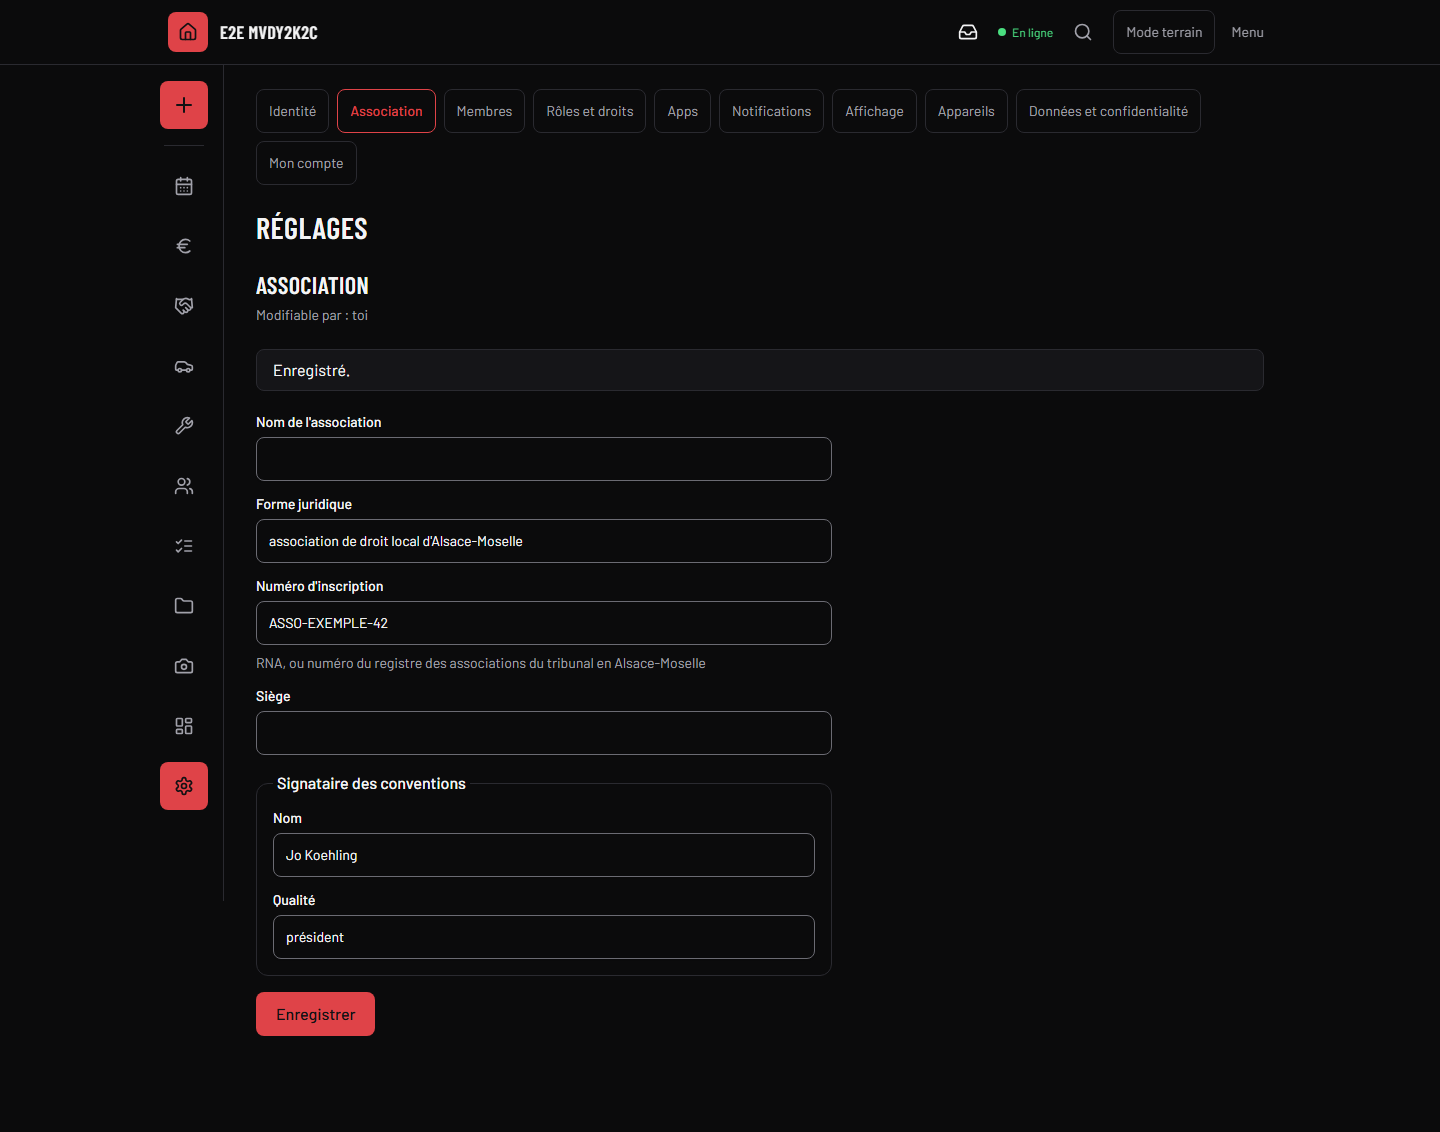
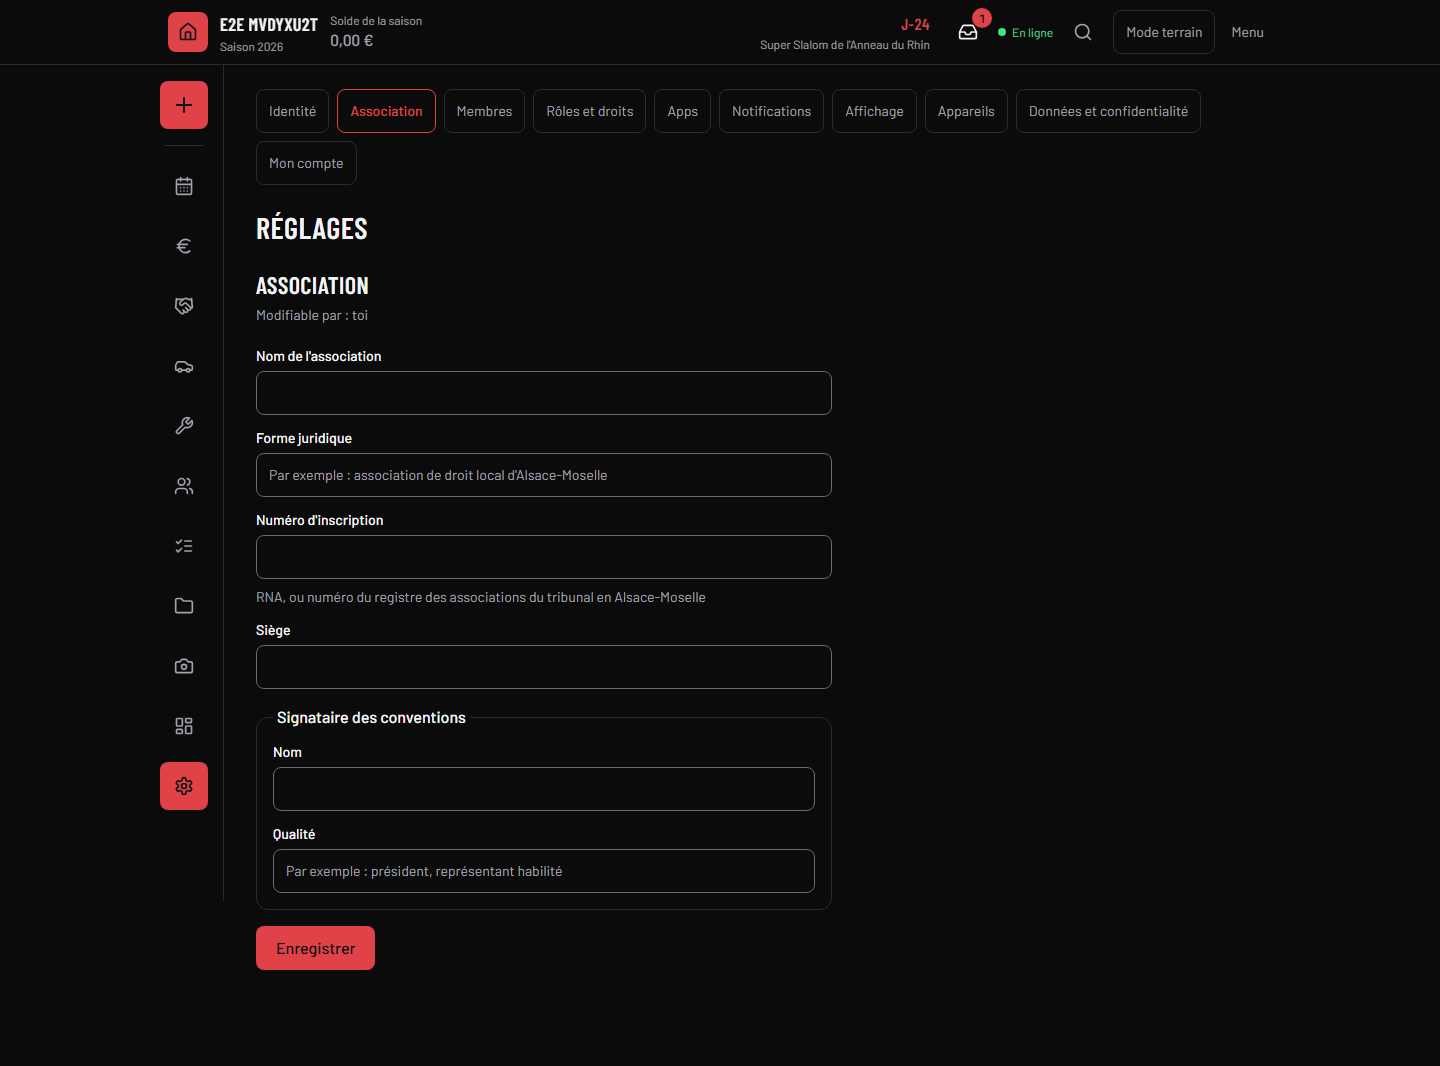
Partenaires : captures et vérifications du brief 3.5 (points 2 et 5)
- Réglages, Association : capture de la rubrique vide (sans donnée de test), faite dans e2e/captures.spec.ts ; le test g d'e2e/identite.spec.ts ne fait plus de capture.
- scripts/verifier-cloisonnement.ts : contrôle RLS des onze tables Partenaires et des trois colonnes de core_team.
- scripts/verifier-bus.ts : signature, avancement, fin de convention, contrepartie en retard et relance, chacun une seule fois après deux ouvertures du QG.

diff --git a/scripts/verifier-bus.ts b/scripts/verifier-bus.ts
@@ -587,6 +587,82 @@ async function main() {
     const attendusLibres = await proprietaire.voitureSlot.count({ where: { teamId: team.id, deletedAt: null, statut: "libre", vehicle: { actif: true, deletedAt: null } } })
     controle("le widget emplacements libres compte tous les véhicules actifs", widgetEmplacements.nombre === attendusLibres && attendusLibres > 0, `${widgetEmplacements.nombre}/${attendusLibres}`)
 
+    // 12. Partenaires (tâche 3.5) : signature, avancement, fin de convention, retard et relance, un seul
+    //     événement ou une seule tâche à chaque fois, même après deux ouvertures du QG.
+    const partenaires = await import("../src/apps/partenaires/services-serveur")
+    const { cleContrepartieEnRetard } = await import("../src/apps/partenaires/charges")
+    const { jourParis } = await import("../src/apps/partenaires/regles")
+    const saisonPartenaires = randomUUID()
+    await proprietaire.coreSeason.create({
+      data: { id: saisonPartenaires, teamId: team.id, annee: 2041, nom: "Saison 2041", dateDebut: new Date("2041-01-01"), dateFin: new Date("2041-12-31") },
+    })
+    const compterEvenements = async (nom: string, champ: string, valeur: string) =>
+      (await proprietaire.coreDomainEvent.findMany({ where: { teamId: team.id, nom } })).filter(
+        (e) => (e.donnees as Record<string, unknown>)[champ] === valeur,
+      ).length
+
+    const partenaireId = await partenaires.creerProspectDans(ctx, { entreprise: `Garage Verif ${suffixe}`, contact: { prenom: "Ana", nom: "Verif" } })
+    const [modele] = await partenaires.lireModelesDans(ctx)
+    const conventionId = await partenaires.creerConventionDans(ctx, {
+      partnerId: partenaireId,
+      templateId: modele.id,
+      seasonId: saisonPartenaires,
+      dateDebut: "2041-01-01",
+      dateFin: "2041-12-31",
+    })
+    const logoId = await partenaires.ajouterContrepartieDans(ctx, conventionId, { libelle: "Logo sur la voiture", type: "logo_voiture", quantitePromise: 1 })
+    await partenaires.modifierContrepartieDans(ctx, logoId, { slotId: randomUUID(), slotNom: "Portière droite" })
+    const publicationId = await partenaires.ajouterContrepartieDans(ctx, conventionId, { libelle: "Publication", type: "publication_reseaux", quantitePromise: 2 })
+    await partenaires.modifierContrepartieDans(ctx, publicationId, { echeance: "2026-01-15" })
+
+    await partenaires.marquerEnvoyeeDans(ctx, conventionId)
+    await partenaires.marquerSigneeDans(ctx, conventionId, { signeeLe: "2041-01-01", signataires: "Jo Koehling ; Ana Verif" })
+    const signees = await proprietaire.coreDomainEvent.findMany({ where: { teamId: team.id, nom: "partenaires.convention_signee" } })
+    const signee = signees.find((e) => (e.donnees as Record<string, unknown>).agreementId === conventionId)
+    const contrepartiesSignee = (signee?.donnees as { contreparties?: Array<{ slotNom: string | null }> } | undefined)?.contreparties ?? []
+    controle(
+      "marquer signée émet convention_signee avec la contrepartie logo et son emplacement",
+      contrepartiesSignee.length === 1 && contrepartiesSignee[0].slotNom === "Portière droite",
+      `contreparties : ${contrepartiesSignee.length}`,
+    )
+    const partenaireSigne = await proprietaire.partenairesPartner.findUnique({ where: { id: partenaireId } })
+    controle("la signature fait passer le partenaire au statut partenaire", partenaireSigne?.statut === "partenaire", partenaireSigne?.statut)
+
+    await partenaires.saisirAvancementDans(ctx, logoId, 1)
+    await partenaires.saisirAvancementDans(ctx, logoId, 1)
+    controle(
+      "saisir la quantité promise émet contrepartie_tenue une seule fois",
+      (await compterEvenements("partenaires.contrepartie_tenue", "benefitId", logoId)) === 1,
+    )
+
+    // Dates passées : signée → en cours → terminée au recalcul, en une fois ; l'événement part une seule fois.
+    await proprietaire.partenairesAgreement.update({ where: { id: conventionId }, data: { dateDebut: new Date("2026-01-01"), dateFin: new Date("2026-06-30") } })
+    await partenaires.recalculerPourQg(ctx, "gestion")
+    await partenaires.recalculerPourQg(ctx, "gestion")
+    const conventionTerminee = await proprietaire.partenairesAgreement.findUnique({ where: { id: conventionId } })
+    controle("le recalcul fait passer la convention à terminée", conventionTerminee?.statut === "terminee", conventionTerminee?.statut)
+    controle(
+      "convention_terminee est émis une seule fois, malgré deux ouvertures du QG",
+      (await compterEvenements("partenaires.convention_terminee", "agreementId", conventionId)) === 1,
+    )
+
+    // Contrepartie en retard (échéance passée, non tenue) : un événement et une action, une seule fois.
+    controle(
+      "contrepartie en retard : un seul événement après deux ouvertures du QG",
+      (await compterEvenements("partenaires.contrepartie_en_retard", "benefitId", publicationId)) === 1,
+    )
+    const actionsRetard = await proprietaire.coreAction.count({ where: { teamId: team.id, cleUnicite: cleContrepartieEnRetard(publicationId, "2026-01-15") } })
+    controle("contrepartie en retard : une seule action levée", actionsRetard === 1, String(actionsRetard))
+
+    // Relance due aujourd'hui : un événement et une seule tâche, même après deux ouvertures du QG.
+    const prospectRelance = await partenaires.creerProspectDans(ctx, { entreprise: `Relance Verif ${suffixe}` })
+    await partenaires.modifierPartenaireDans(ctx, prospectRelance, { prochaineRelance: jourParis(new Date()) })
+    await partenaires.recalculerPourQg(ctx, "gestion")
+    await partenaires.recalculerPourQg(ctx, "gestion")
+    controle("relance due : un seul événement relance_due", (await compterEvenements("partenaires.relance_due", "partnerId", prospectRelance)) === 1)
+    const taches = await proprietaire.coreTask.count({ where: { teamId: team.id, app: "partenaires", ficheId: prospectRelance } })
+    controle("relance due : une seule tâche core_task", taches === 1, String(taches))
+
     console.log("\nBus et boîte d'actions vérifiés : tous les contrôles passent.")
   } finally {
     // Nettoyage avec le rôle propriétaire, dans l'ordre des clés étrangères.
@@ -614,6 +690,20 @@ async function main() {
     await proprietaire.voitureTeamPref.deleteMany({ where: { teamId: team.id } })
     await proprietaire.voitureVehicle.deleteMany({ where: { teamId: team.id } })
     await proprietaire.coreVehicle.deleteMany({ where: { teamId: team.id } })
+    // Partenaires : les enfants d'abord (RESTRICT), puis les contacts et les tâches.
+    await proprietaire.partenairesPortalMessage.deleteMany({ where: { teamId: team.id } })
+    await proprietaire.partenairesPortalLink.deleteMany({ where: { teamId: team.id } })
+    await proprietaire.partenairesProof.deleteMany({ where: { teamId: team.id } })
+    await proprietaire.partenairesReport.deleteMany({ where: { teamId: team.id } })
+    await proprietaire.partenairesBenefit.deleteMany({ where: { teamId: team.id } })
+    await proprietaire.partenairesBenefitCatalog.deleteMany({ where: { teamId: team.id } })
+    await proprietaire.partenairesAmendment.deleteMany({ where: { teamId: team.id } })
+    await proprietaire.partenairesAgreement.deleteMany({ where: { teamId: team.id } })
+    await proprietaire.partenairesTemplate.deleteMany({ where: { teamId: team.id } })
+    await proprietaire.partenairesInteraction.deleteMany({ where: { teamId: team.id } })
+    await proprietaire.partenairesPartner.deleteMany({ where: { teamId: team.id } })
+    await proprietaire.coreTask.deleteMany({ where: { teamId: team.id } })
+    await proprietaire.coreContact.deleteMany({ where: { teamId: team.id } })
     await proprietaire.coreSeason.deleteMany({ where: { teamId: team.id } })
     await proprietaire.coreAction.deleteMany({ where: { teamId: team.id } })
     await proprietaire.coreDomainEvent.deleteMany({ where: { teamId: team.id } })

diff --git a/scripts/verifier-cloisonnement.ts b/scripts/verifier-cloisonnement.ts
@@ -290,6 +290,44 @@ async function main() {
       voitureSansRls.map((r) => r.table_name).join(", "),
     )
 
+    // Partenaires (tâche 3.5) : onze tables, même garantie que voiture_. Plus les trois colonnes d'identité
+    // juridique de core_team, qui doivent exister (la lecture passe par la team, comme les autres colonnes).
+    const tablesPartenaires = [
+      "partenaires_partner", "partenaires_interaction", "partenaires_template", "partenaires_agreement",
+      "partenaires_amendment", "partenaires_benefit_catalog", "partenaires_benefit", "partenaires_proof",
+      "partenaires_report", "partenaires_portal_link", "partenaires_portal_message",
+    ]
+    const partenairesSansRls = await proprietaire.$queryRaw<Array<{ table_name: string }>>`
+      SELECT c.relname AS table_name
+      FROM pg_class c
+      JOIN pg_namespace n ON n.oid = c.relnamespace
+      WHERE n.nspname = 'public'
+        AND c.relname = ANY(${tablesPartenaires}::text[])
+        AND (
+          NOT c.relrowsecurity
+          OR NOT c.relforcerowsecurity
+          OR NOT EXISTS (
+            SELECT 1 FROM pg_policies p
+            WHERE p.schemaname = 'public' AND p.tablename = c.relname AND p.policyname = 'cloisonnement_team'
+          )
+          OR NOT (
+            has_table_privilege('elsass_racing_app', c.oid, 'SELECT')
+            AND has_table_privilege('elsass_racing_app', c.oid, 'INSERT')
+            AND has_table_privilege('elsass_racing_app', c.oid, 'UPDATE')
+          )
+        )
+      ORDER BY c.relname`
+    controle(
+      "les onze tables partenaires_ ont le RLS forcé, la politique cloisonnement_team et les droits du rôle applicatif",
+      partenairesSansRls.length === 0 && tablesPartenaires.length === 11,
+      partenairesSansRls.map((r) => r.table_name).join(", "),
+    )
+    const colonnesJuridiques = await proprietaire.$queryRaw<Array<{ column_name: string }>>`
+      SELECT column_name FROM information_schema.columns
+      WHERE table_schema = 'public' AND table_name = 'core_team'
+        AND column_name IN ('forme_juridique', 'signataire_nom', 'signataire_qualite')`
+    controle("core_team porte les trois colonnes d'identité juridique", colonnesJuridiques.length === 3)
+
     const vehiculeB = randomUUID()
     await proprietaire.coreVehicle.create({ data: { id: vehiculeB, teamId: teamB.id, type: "course", nomCourt: "Véhicule B" } })
     const ficheB = randomUUID()

diff --git a/e2e/identite.spec.ts b/e2e/identite.spec.ts
@@ -1,11 +1,8 @@
-import path from "node:path"
-
 import { expect, test } from "./aide/fixtures"
 import { compterEvenements } from "./aide/session"
 import { connecterParLien } from "./aide/navigation"
 
 const NOUVELLE_COULEUR = "#2e7d32"
-const DOSSIER = path.join(__dirname, "..", "docs", "captures")
 
 test("d. identité : la couleur enregistrée est relue après rechargement, et l'événement est émis", async ({ page, equipe }) => {
   await connecterParLien(page, equipe)
@@ -49,7 +46,4 @@ test("g. association : forme juridique, numéro d'inscription et signataire sont
   await expect(page.getByText("RNA, ou numéro du registre des associations du tribunal en Alsace-Moselle")).toBeVisible()
 
   expect(await compterEvenements(equipe, "settings.identite_modifiee")).toBeGreaterThanOrEqual(1)
-
-  await page.setViewportSize({ width: 1440, height: 900 })
-  await page.screenshot({ path: path.join(DOSSIER, "reglages-association-1440x900.png"), fullPage: true })
 })

diff --git a/e2e/captures.spec.ts b/e2e/captures.spec.ts
@@ -66,6 +66,12 @@ test("captures : QG, Identité et boîte d'actions", async ({ page, equipe }) =>
   await preparerCapture(page)
   await page.screenshot({ path: path.join(DOSSIER, "identite-1440x900.png"), fullPage: true })
 
+  // Brief 3.5, point 2 : la rubrique Association, telle que la team la voit (identité juridique non renseignée).
+  await page.goto("/apps/settings/association")
+  await expect(page.getByLabel("Numéro d'inscription")).toBeVisible()
+  await preparerCapture(page)
+  await page.screenshot({ path: path.join(DOSSIER, "reglages-association-1440x900.png"), fullPage: true })
+
   await page.setViewportSize({ width: 360, height: 740 })
   await page.goto("/qg")
   await expect(page.getByRole("navigation", { name: "Navigation rapide" })).toBeVisible()
